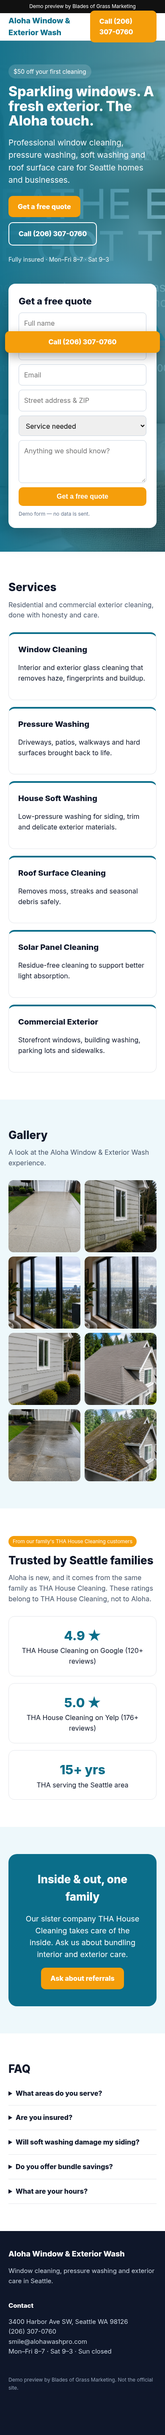
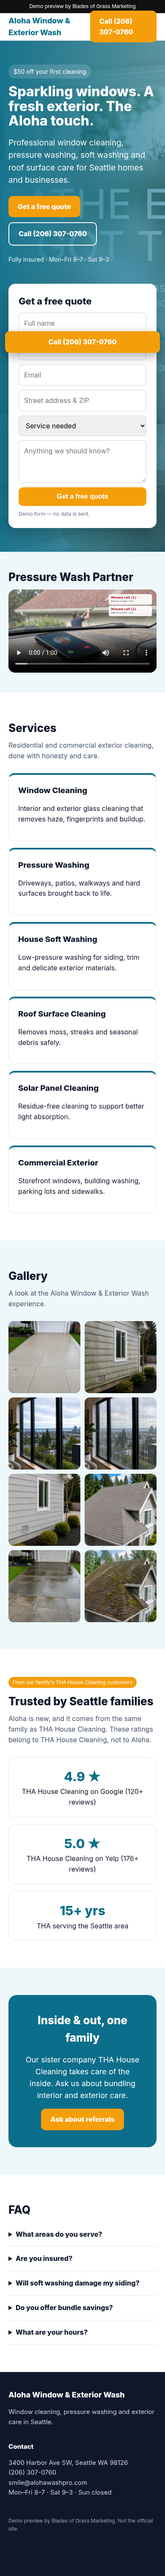
Fix mobile header call button

diff --git a/aloha/index.html b/aloha/index.html
@@ -26,11 +26,14 @@ h2.t{font-size:clamp(26px,4vw,38px);margin:0 0 8px}.sub{color:#475569;margin:0 0
 .ref{background:var(--p);color:#fff;border-radius:20px;padding:40px;text-align:center}
 details{border-bottom:1px solid #e5e7eb;padding:16px 0}summary{font-weight:700;cursor:pointer}
 footer{background:var(--d);color:#cbd5e1;padding:40px 0 90px;font-size:15px}footer .w{display:grid;gap:20px;grid-template-columns:repeat(auto-fit,minmax(220px,1fr))}
+.hcall{white-space:nowrap;flex-shrink:0;padding:10px 16px}.hcall .full{display:none}.logo{line-height:1.2;margin-right:10px}
 .mcall{position:fixed;bottom:12px;left:12px;right:12px;text-align:center;z-index:10;box-shadow:0 8px 24px #0005}
-@media(min-width:900px){.hero .w{grid-template-columns:1.2fr 1fr;align-items:center}.hero{padding:90px 0}.mcall{display:none}footer{padding-bottom:40px}}
+@media(min-width:600px){.hcall .full{display:inline}}
+@media(min-width:900px){.hero .w{grid-template-columns:1.2fr 1fr;align-items:center}.hero{padding:90px 0}.hcall{white-space:nowrap;flex-shrink:0;padding:10px 16px}.hcall .full{display:none}.logo{line-height:1.2;margin-right:10px}
+.mcall{display:none}footer{padding-bottom:40px}}
 </style></head><body>
 <div class="demo">Demo preview by Blades of Grass Marketing</div>
-<header><div class="w"><span class="logo">Aloha Window & Exterior Wash</span><a class="btn" href="tel:+12063070760">Call (206) 307-0760</a></div></header>
+<header><div class="w"><span class="logo">Aloha Window & Exterior Wash</span><a class="btn hcall" href="tel:+12063070760" aria-label="Call (206) 307-0760">&#128222; Call<span class="full"> (206) 307-0760</span></a></div></header>
 <div class="hero"><div class="w"><div><span class="promo">$50 off your first cleaning</span><h1>Sparkling windows. A fresh exterior. The Aloha touch.</h1><p style="font-size:19px;opacity:.95">Professional window cleaning, pressure washing, soft washing and roof surface care for Seattle homes and businesses.</p>
 <div class="cta"><a class="btn" href="#quote">Get a free quote</a><a class="btn o" href="tel:+12063070760">Call (206) 307-0760</a></div><p style="opacity:.9;font-size:14px">Fully insured · Mon–Fri 8–7 · Sat 9–3</p></div>
 <form id="quote" onsubmit="event.preventDefault();this.innerHTML='<h2>Thanks!</h2><p>This is a demo form — on the live site your request would go straight to the team.</p>'">

diff --git a/tha/index.html b/tha/index.html
@@ -26,11 +26,14 @@ h2.t{font-size:clamp(26px,4vw,38px);margin:0 0 8px}.sub{color:#475569;margin:0 0
 .ref{background:var(--p);color:#fff;border-radius:20px;padding:40px;text-align:center}
 details{border-bottom:1px solid #e5e7eb;padding:16px 0}summary{font-weight:700;cursor:pointer}
 footer{background:var(--d);color:#cbd5e1;padding:40px 0 90px;font-size:15px}footer .w{display:grid;gap:20px;grid-template-columns:repeat(auto-fit,minmax(220px,1fr))}
+.hcall{white-space:nowrap;flex-shrink:0;padding:10px 16px}.hcall .full{display:none}.logo{line-height:1.2;margin-right:10px}
 .mcall{position:fixed;bottom:12px;left:12px;right:12px;text-align:center;z-index:10;box-shadow:0 8px 24px #0005}
-@media(min-width:900px){.hero .w{grid-template-columns:1.2fr 1fr;align-items:center}.hero{padding:90px 0}.mcall{display:none}footer{padding-bottom:40px}}
+@media(min-width:600px){.hcall .full{display:inline}}
+@media(min-width:900px){.hero .w{grid-template-columns:1.2fr 1fr;align-items:center}.hero{padding:90px 0}.hcall{white-space:nowrap;flex-shrink:0;padding:10px 16px}.hcall .full{display:none}.logo{line-height:1.2;margin-right:10px}
+.mcall{display:none}footer{padding-bottom:40px}}
 </style></head><body>
 <div class="demo">Demo preview by Blades of Grass Marketing</div>
-<header><div class="w"><span class="logo">THA House Cleaning</span><a class="btn" href="tel:+14252899310">Call 425-289-9310</a></div></header>
+<header><div class="w"><span class="logo">THA House Cleaning</span><a class="btn hcall" href="tel:+14252899310" aria-label="Call 425-289-9310">&#128222; Call<span class="full"> 425-289-9310</span></a></div></header>
 <div class="hero"><div class="w"><div><span class="promo">$25 off your first cleaning with code CLEAN25</span><h1>We clean homes that make you feel good.</h1><p style="font-size:19px;opacity:.95">Professional Seattle home cleaning with safe products, proven methods and spotless results.</p>
 <div class="cta"><a class="btn" href="#quote">Book my cleaning</a><a class="btn o" href="tel:+14252899310">Call 425-289-9310</a></div><p style="opacity:.9;font-size:14px">Google 4.9 ★ (120+) · Yelp 5.0 ★ (176+) · 2026 Nextdoor Neighborhood Fave</p></div>
 <form id="quote" onsubmit="event.preventDefault();this.innerHTML='<h2>Thanks!</h2><p>This is a demo form — on the live site your request would go straight to the team.</p>'">
